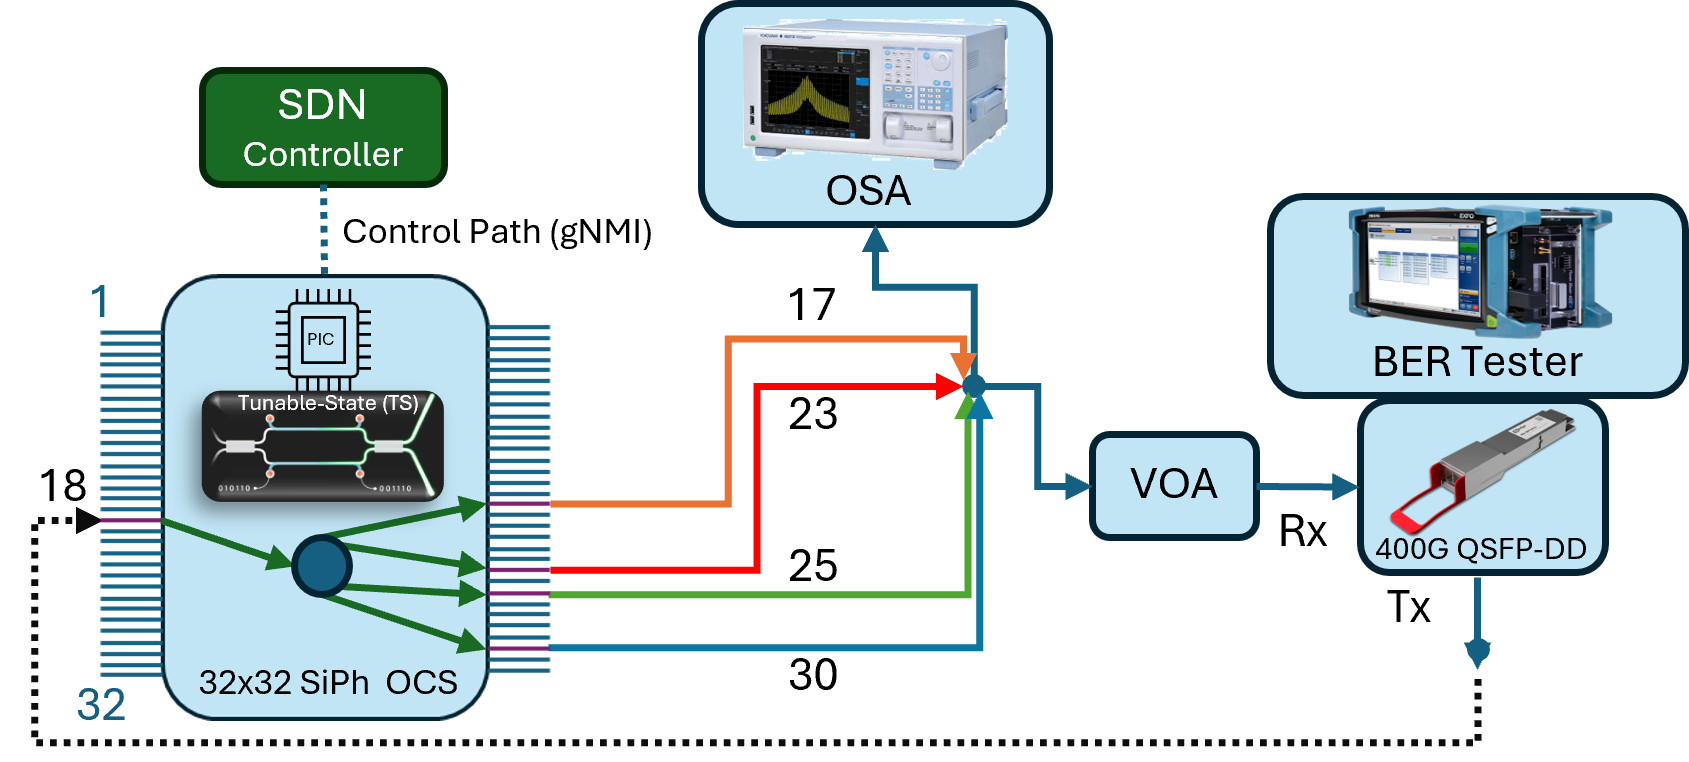
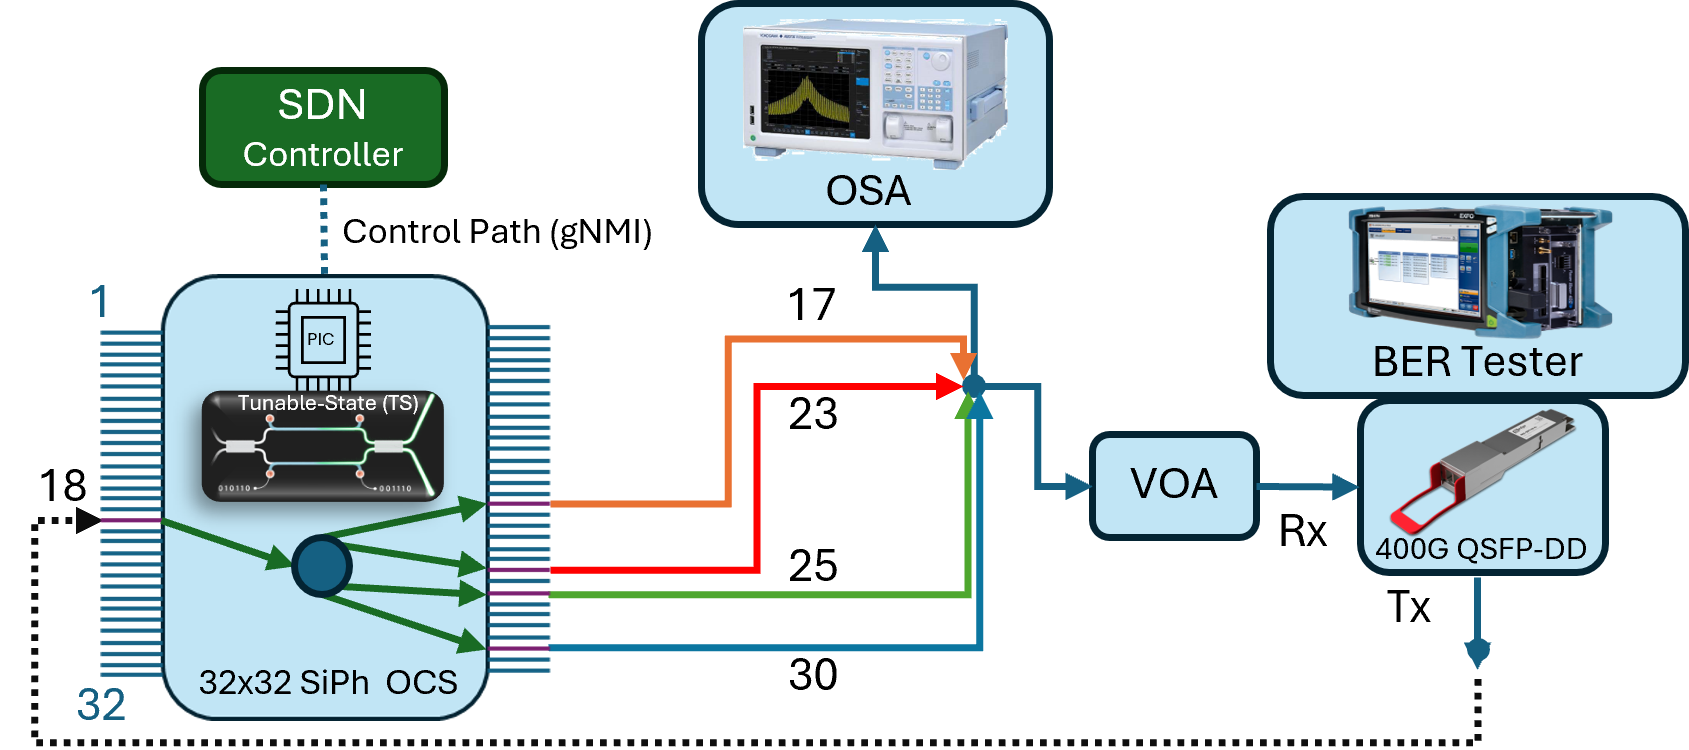
Page layout formatting of chapter 5

diff --git a/ch5-apps.tex b/ch5-apps.tex
@@ -589,7 +589,7 @@ illustrates the complete experimental setup used for this demonstration.
 
 \begin{figure}[htpb]
     \centering
-    \includegraphics[width=0.9\textwidth]{figures/ch5-multicast_setup.png} 
+    \includegraphics[width=0.85\textwidth]{figures/ch5-multicast_setup.png} 
     \caption{SDN-controlled $32\times32$ SiPh OCS experimental setup for 400G WDM multicast 
     ($1\times4$ configuration) using gNMI. \textit{Reproduced from 
     \cite{Santome2026_SummerTopicals}. \copyright~2026 IEEE.}}
